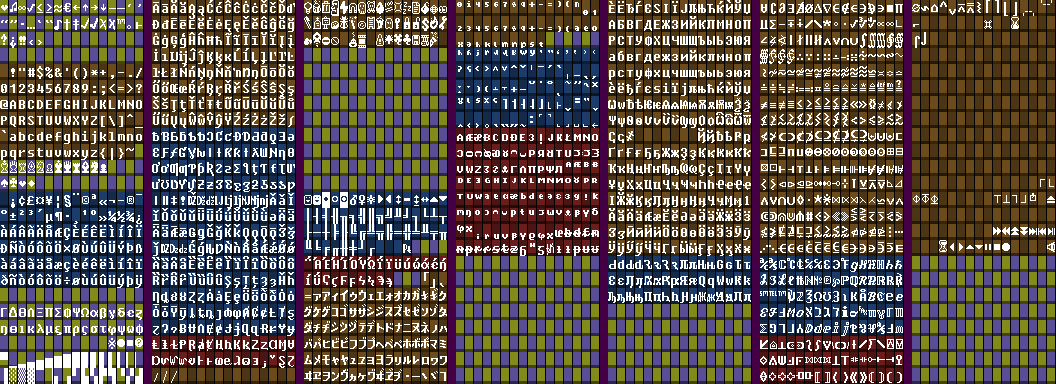
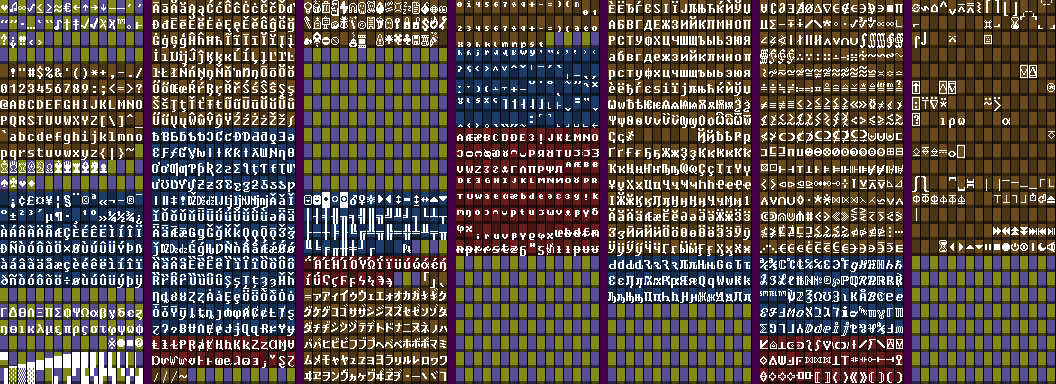
Add some more Sym1 glyphs, and fix a few problems
git-svn-id: file:///home/runner/work/tom7misc-sync-action/tom7misc-sync-action/upstream/trunk@7315 c7e11af0-4c7a-11f1-9edd-117cb6f09d55

diff --git a/bit7/font-image.cc b/bit7/font-image.cc
@@ -28,12 +28,17 @@ static constexpr bool VERBOSE = true;
 // consider not even outputting them in the TTFs. The purpose
 // is to allow for some utility-style glyph pieces in the
 // font images that are not deleted by normalization.
+static constexpr uint32_t PUA_START = 0xF7000;
 enum PrivateUse : uint32_t {
-  PUA_START = 0xF7000,
-  PUA_LC_SLASH1,
+  PUA_LC_SLASH1 = PUA_START,
   PUA_SLASH_STEEP,
   PUA_SLASH,
+  PUA_CENTER_TILDE,
+
+  PUA_END,
 };
+constexpr int NUM_PUA = PUA_END - PUA_START;
+static_assert(NUM_PUA <= 16);
 
 struct PageInfo {
   // Codepoint or -1.
@@ -261,11 +266,12 @@ static PageInfo PageBit7Classic() {
 // Standard size is: 16x24
 static PageInfo PageBit7LatinABC() {
   PageInfo info;
+
   info.sections = {
     {0, 8 * 16},
     {8 * 16, 13 * 16},
     {(8 + 13) * 16, 2 * 16},
-    {(8 + 13 + 2) * 16, 16},
+    {(8 + 13 + 2) * 16, NUM_PUA},
   };
 
   info.codepoints = {
@@ -657,15 +663,17 @@ static PageInfo PageBit7LatinABC() {
     0x2C7D,  // (ⱽ) MODIFIER LETTER CAPITAL V
     0x2C7E,  // (Ȿ) LATIN CAPITAL LETTER S WITH SWASH TAIL
     0x2C7F,  // (Ɀ) LATIN CAPITAL LETTER Z WITH SWASH TAIL
-
-    // Private area for utility glyph pieces (slashes)
-    PUA_LC_SLASH1,
-    PUA_SLASH_STEEP,
-    PUA_SLASH,
-
-    // 16 unused slots
-    -1, -1, -1, -1, -1, -1, -1, -1, -1, -1, -1, -1, -1,
   };
+
+  // Private area for utility glyph pieces (e.g. slashes)
+  for (int i = 0; i < 16; i++) {
+    if (i < NUM_PUA) {
+      info.codepoints.push_back(PUA_START + i);
+    } else {
+      // remainder of line unused
+      info.codepoints.push_back(-1);
+    }
+  }
 
   CHECK(info.codepoints.size() == 16 * 24) << info.codepoints.size();
   return info;
@@ -2278,7 +2286,7 @@ static PageInfo PageBit7Sym1() {
     0x23b8,  // (⎸) LEFT VERTICAL BOX LINE
     0x23b9,  // (⎹) RIGHT VERTICAL BOX LINE
     0x23ba,  // (⎺) HORIZONTAL SCAN LINE-1
-    0x23bb,  // (⎻) HORIZONTAL SCAN LINE-3
+    0x23bb,  // (⎻) HORIZONTAL SCAN LINE-3 (fyi: LINE-5 is U+2500)
     0x23bc,  // (⎼) HORIZONTAL SCAN LINE-7
     0x23bd,  // (⎽) HORIZONTAL SCAN LINE-9
     0x23be,  // (⎾) DENTISTRY SYMBOL LIGHT VERTICAL AND TOP RIGHT
@@ -2551,6 +2559,12 @@ REUSE_FOR = {
   {0x2295, 0x2A01},  // oplus
   {0x2279, 0x2A02},  // otimes
   // ... more here.
+
+  // APL symbols have copies of some lowercase greek
+  {0x03B9, 0x2373},  // iota
+  {0x03C1, 0x2374},  // rho
+  {0x03C9, 0x2375},  // omega
+  {0x03B1, 0x237A},  // alpha
 
   // Various spaces. Since the font is fixed-width,
   // we just render these the same as space. Most of these

diff --git a/bit7/normalize.cc b/bit7/normalize.cc
@@ -3,6 +3,7 @@
 // with it (stray pixels, etc.).
 
 #include <string>
+#include <string_view>
 
 #include "base/logging.h"
 #include "base/print.h"
@@ -11,7 +12,7 @@
 
 using namespace std;
 
-static Config ParseAndCheckConfig(const std::string &cfgfile) {
+static Config ParseAndCheckConfig(std::string_view cfgfile) {
   Config config = Config::ParseConfig(cfgfile);
   CHECK(!config.pngfile.empty()) << "Required config line: pngfile";
   CHECK(!config.name.empty()) << "Required config line: name";
@@ -19,7 +20,7 @@ static Config ParseAndCheckConfig(const std::string &cfgfile) {
   CHECK(config.charbox_width > 0) << "Config line charbox-width must be >0";
   CHECK(config.charbox_height > 0) << "Config line charbox-height must be >0";
 
-  CHECK(config.descent >= 0) << "Config line charbox-height must be >= 0";
+  CHECK(config.descent >= 0) << "Config line descent must be >= 0";
 
   CHECK(config.chars_across > 0);
   CHECK(config.chars_down > 0);
